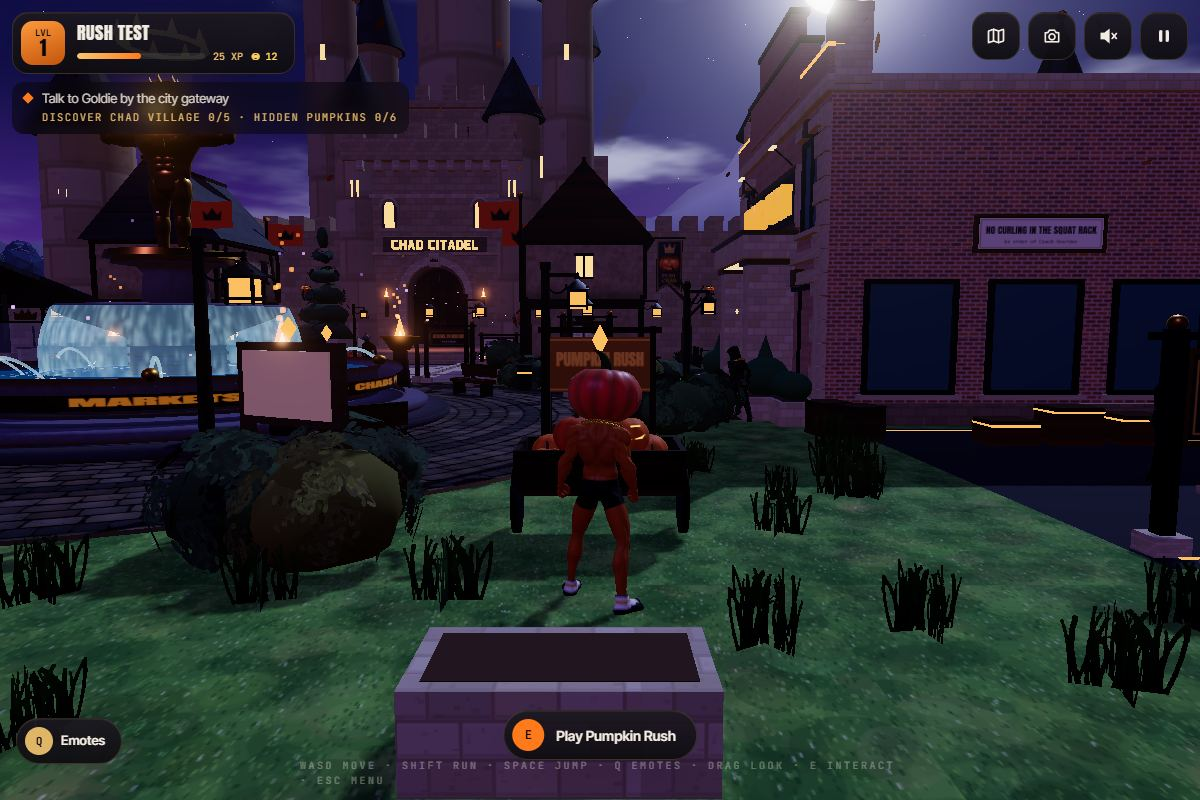
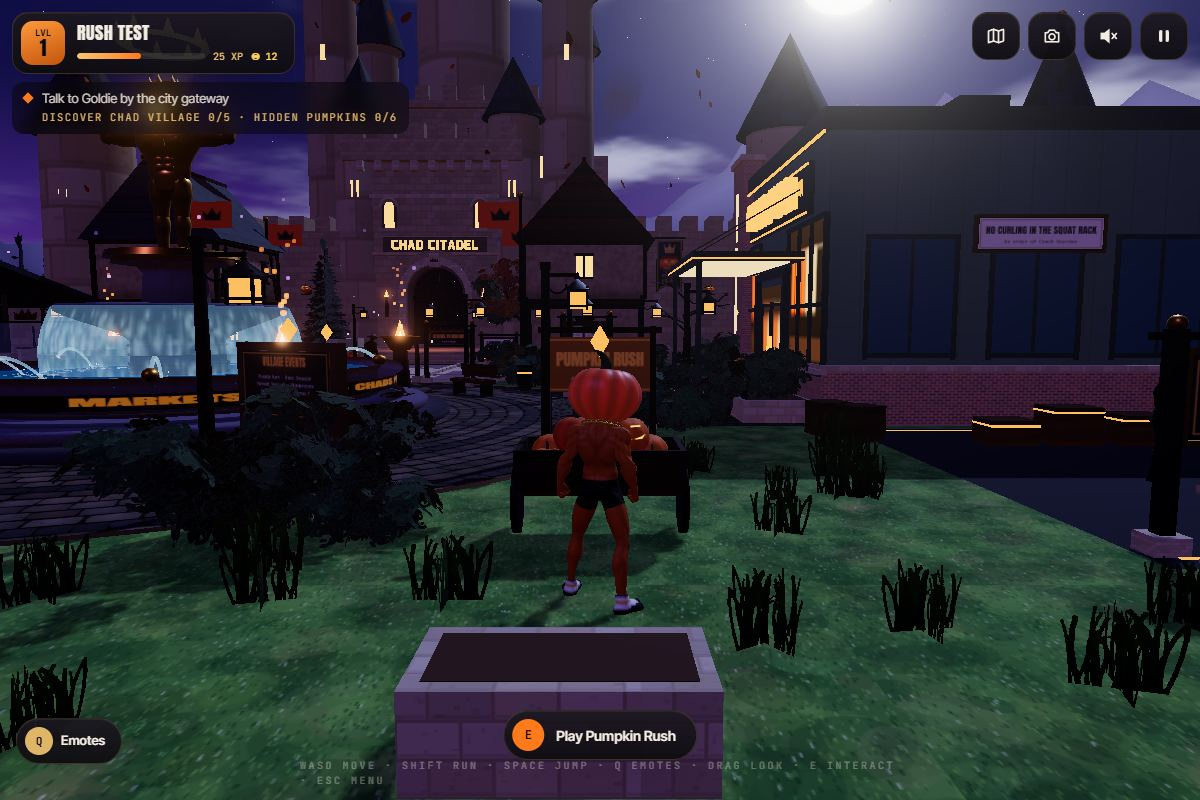
feat(chadverse): Pump Arcade set back with a real forecourt (inlay plaza, bollards), taller silhouette and neon pylons

diff --git a/src/game/scenes/world/eastside.ts b/src/game/scenes/world/eastside.ts
@@ -167,9 +167,11 @@ export function eastside(T: Town, stoneTex: THREE.Texture) {
   /* ═════════ PUMP ARCADE ═════════ */
   {
     const W = 17 // along the facade (world z)
-    const Dd = 10.5
-    const H = 8.2
-    const F = Frame.at(T.batch, ARCADE.x, 0, ARCADE.z, -Math.PI / 2) // faces west down the street
+    // a shallower building set back to the district's east edge: the street ends in a real forecourt instead of running into the facade
+    const Dd = 7
+    const H = 9.4
+    const AX = ARCADE.x + 1.75 // centre of the building (its east wall stays where it was)
+    const F = Frame.at(T.batch, AX, 0, ARCADE.z, -Math.PI / 2) // faces west down the street
     const fz = Dd / 2
     const panelDark = std({ color: '#2a2036', roughness: 0.55, metalness: 0.3 })
     const purpleTrim = std({ color: '#7a4ad8', roughness: 0.4, metalness: 0.4 })
@@ -248,8 +250,32 @@ export function eastside(T: Town, stoneTex: THREE.Texture) {
     const B = F.sub(W / 2 - 0.4, 5.2, fz + 0.9, 0, Math.PI / 2, 0)
     framedBoard(B, 1.5, 3.4, blade, SM, true, 0.12)
     for (const y of [-1.2, 1.2]) F.box(0.08, 0.08, 0.8, darkMetal, W / 2 - 0.4, 5.2 + y, fz + 0.45)
-    T.colliders.push({ kind: 'box', minX: ARCADE.x - Dd / 2, maxX: ARCADE.x + Dd / 2 + 0.3, minZ: ARCADE.z - W / 2, maxZ: ARCADE.z + W / 2, h: H })
-    // the arcade forecourt: paving with a purple/orange inlay and two benches
-    for (const [w, c] of [[4.4, P.glowOrange], [4.0, purpleTrim]] as const) T.batch.put(new THREE.RingGeometry(w - 0.12, w, 48).rotateX(-Math.PI / 2), c, ARCADE.x - Dd / 2 - 4.5, 0.03, ARCADE.z, 0, 1, 1, 1, { cast: false })
+    T.colliders.push({ kind: 'box', minX: AX - Dd / 2, maxX: AX + Dd / 2 + 0.3, minZ: ARCADE.z - W / 2, maxZ: ARCADE.z + W / 2, h: H })
+    // the arcade forecourt: a paved plaza with a purple/orange inlay, lit bollards, planters and two pylon signs flanking the facade
+    for (const [w, c] of [[3.4, P.glowOrange], [3.0, purpleTrim]] as const) T.batch.put(new THREE.RingGeometry(w - 0.12, w, 48).rotateX(-Math.PI / 2), c, AX - Dd / 2 - 3.6, 0.03, ARCADE.z, 0, 1, 1, 1, { cast: false })
+    T.batch.put(new THREE.CircleGeometry(2.9, 40).rotateX(-Math.PI / 2), P.stoneLight, AX - Dd / 2 - 3.6, 0.028, ARCADE.z, 0, 1, 1, 1, { cast: false })
+    {
+      const x0 = ARCADE.x - 5.4
+      const x1 = AX - Dd / 2 + 0.2
+      const pg = new THREE.PlaneGeometry(x1 - x0, 9).rotateX(-Math.PI / 2)
+      const pu = pg.attributes.uv as THREE.BufferAttribute
+      for (let i = 0; i < pu.count; i++) pu.setXY(i, (pu.getX(i) * (x1 - x0)) / 3, (pu.getY(i) * 9) / 3)
+      T.batch.put(pg, P.cobble, (x0 + x1) / 2, 0.025, ARCADE.z, 0, 1, 1, 1, { cast: false }) // the street runs on into the forecourt, wider than the street itself
+    }
+    // two tall neon pylons give the landmark a silhouette that reads from down the street
+    for (const sx of [-1, 1]) {
+      const px = sx * (W / 2 + 0.2)
+      F.box(0.7, 13.2, 0.7, panelDark, px, 6.6, fz + 0.4)
+      F.box(0.5, 11.4, 0.08, P.glowOrange, px, 6.5, fz + 0.78, false)
+      for (const y of [4, 7.5, 11]) F.put(new THREE.TorusGeometry(0.62, 0.06, 6, 20), neonLetters, px, y, fz + 0.8)
+      F.put(new THREE.ConeGeometry(0.5, 1.4, 4).rotateY(Math.PI / 4), P.gold, px, 13.9, fz + 0.4)
+      T.colliders.push({ kind: 'box', minX: AX - fz - 0.9, maxX: AX - fz + 0.1, minZ: ARCADE.z + px - 0.45, maxZ: ARCADE.z + px + 0.45, h: 13 })
+    }
+    for (const dz of [-2.4, 0, 2.4]) {
+      const bx = AX - Dd / 2 - 7
+      T.batch.put(new THREE.CylinderGeometry(0.11, 0.13, 0.8, 10), darkMetal, bx, 0.4, ARCADE.z + dz)
+      T.batch.put(new THREE.CylinderGeometry(0.115, 0.115, 0.05, 10), P.glowOrange, bx, 0.76, ARCADE.z + dz, 0, 1, 1, 1, { cast: false })
+      T.colliders.push({ kind: 'circle', x: bx, z: ARCADE.z + dz, r: 0.14, h: 0.8 })
+    }
   }
 }

diff --git a/src/game/scenes/World.ts b/src/game/scenes/World.ts
@@ -716,7 +716,7 @@ export class World implements GameScene {
     add('yard', 'Read the yard board', 17.4, 12.9, 1.3, 'info')
     add('well', 'Toss a coin in the wishing well', -29.4, 2.5, 1.7, 'activity')
     add('window', 'Peer through the window', 16.6, -19.5, 1.8, 'info')
-    add('arcade', 'Pump Arcade — opening soon', ARCADE.x - 7.2, ARCADE.z, 2.0, 'info')
+    add('arcade', 'Pump Arcade — opening soon', ARCADE.x - 2.4, ARCADE.z, 2.4, 'info')
     add('rune', 'Press the strange rune', -23.6, -25.5, 1.6, 'secret')
     add('pumpkin', 'Poke the suspicious pumpkin', -9.6, 10.4, 2.1, 'info')
     this.seats.forEach((b, i) => add(`bench_${i}`, b.label, b.x + Math.sin(b.ry) * 0.75, b.z + Math.cos(b.ry) * 0.75, 1.1, 'activity'))
